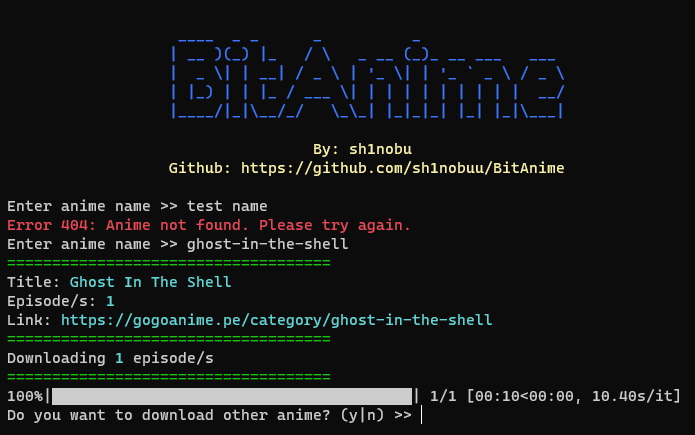
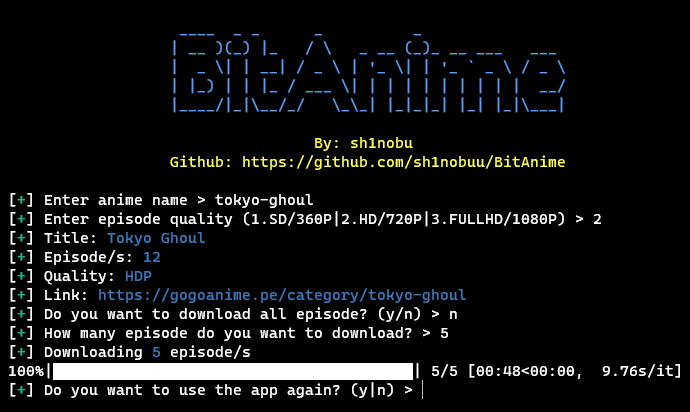
changed the bitanime screenshot

Changed region(s): [[0.0, 0.466, 1.0, 0.9903], [0.2435, 0.0583, 0.8217, 0.2913], [0.2435, 0.3204, 0.8217, 0.4078]]

diff --git a/README.md b/README.md
@@ -14,7 +14,7 @@
 
 ## About BitAnime
 
-**BitAnime** is a python script that allows you to download anime in large batches. It can also be used to download anime films. **BitAnime** gets its content from [gogoanime](https://gogoanime.pe/). If you get a **404** error, please look up the correct anime name on [gogoanime](https://gogoanime.pe/). This application will download all episodes. At the moment, the quality of the episodes that will be downloaded is different for every anime. For **older anime**, the quality will be **360p** to **480p**, for **newer anime** the quality will be **720p** to **1080p**.
+**BitAnime** is a python script that allows you to download anime in large batches. It can also be used to download anime films. **BitAnime** gets its content from [gogoanime](https://gogoanime.pe/). If you get a **404** error, please look up the correct anime name on [gogoanime](https://gogoanime.pe/). The application will let you download all the episodes, or you can choose how many episodes you want to download.
 
 ## Installation
 
@@ -25,7 +25,7 @@ git clone https://github.com/sh1nobuu/BitAnime.git
 ## Screenshot
 
 <div align="center">
-  <img src="https://i.postimg.cc/bwBxCdNh/ba-screenshot-updated.png"
+  <img style="height:386px; width:688px;" src="https://i.postimg.cc/cLgf8994/ba-screenshot.png"
   title="BitAnime in action" alt="BitAnime Screenshot">
   <img style="height:386px; width:688px;" src="https://i.postimg.cc/G2qGDpfV/downloade.png" title="Katekyo Hitman Reborn" alt="Downloaded anime with BitAnime">
 </div>
